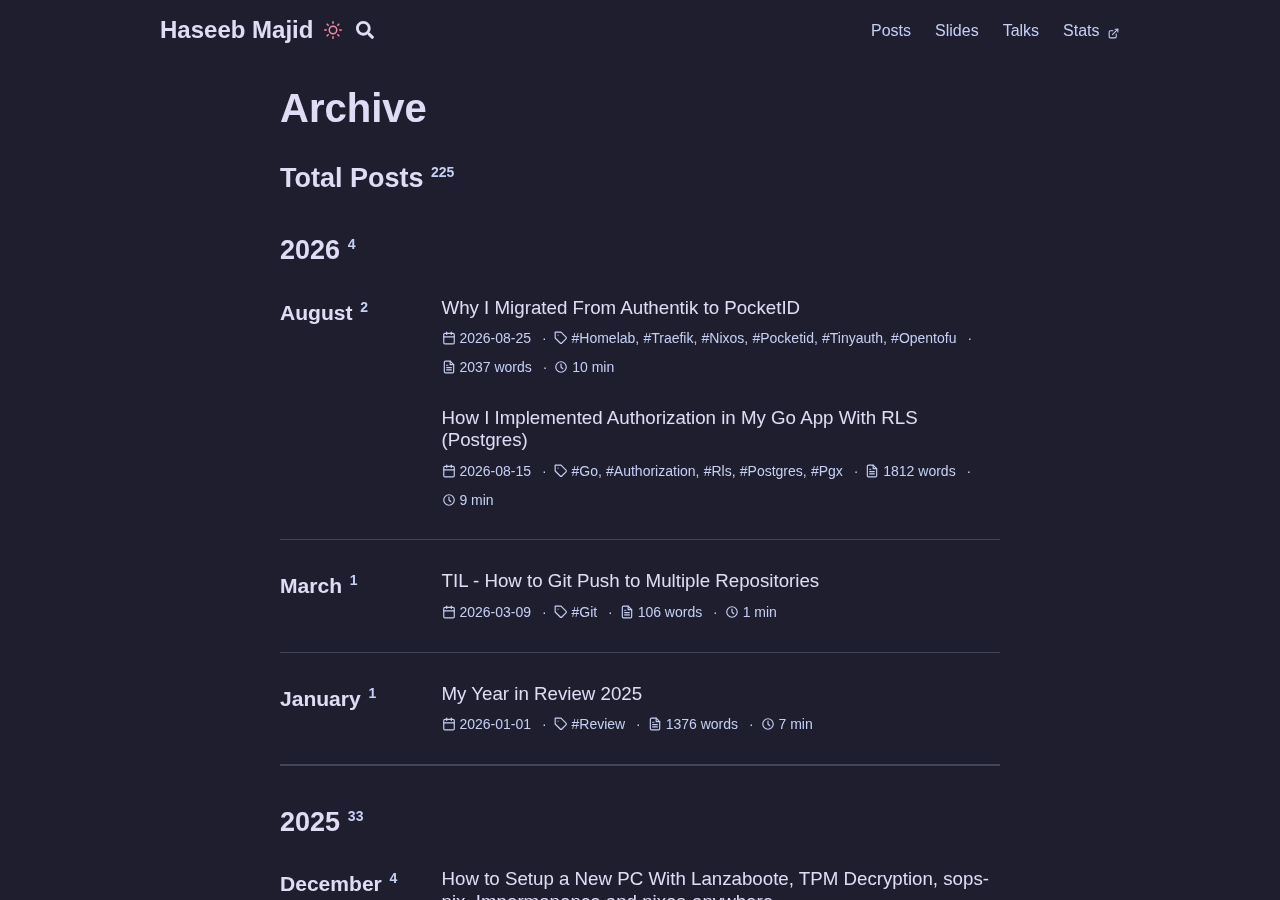
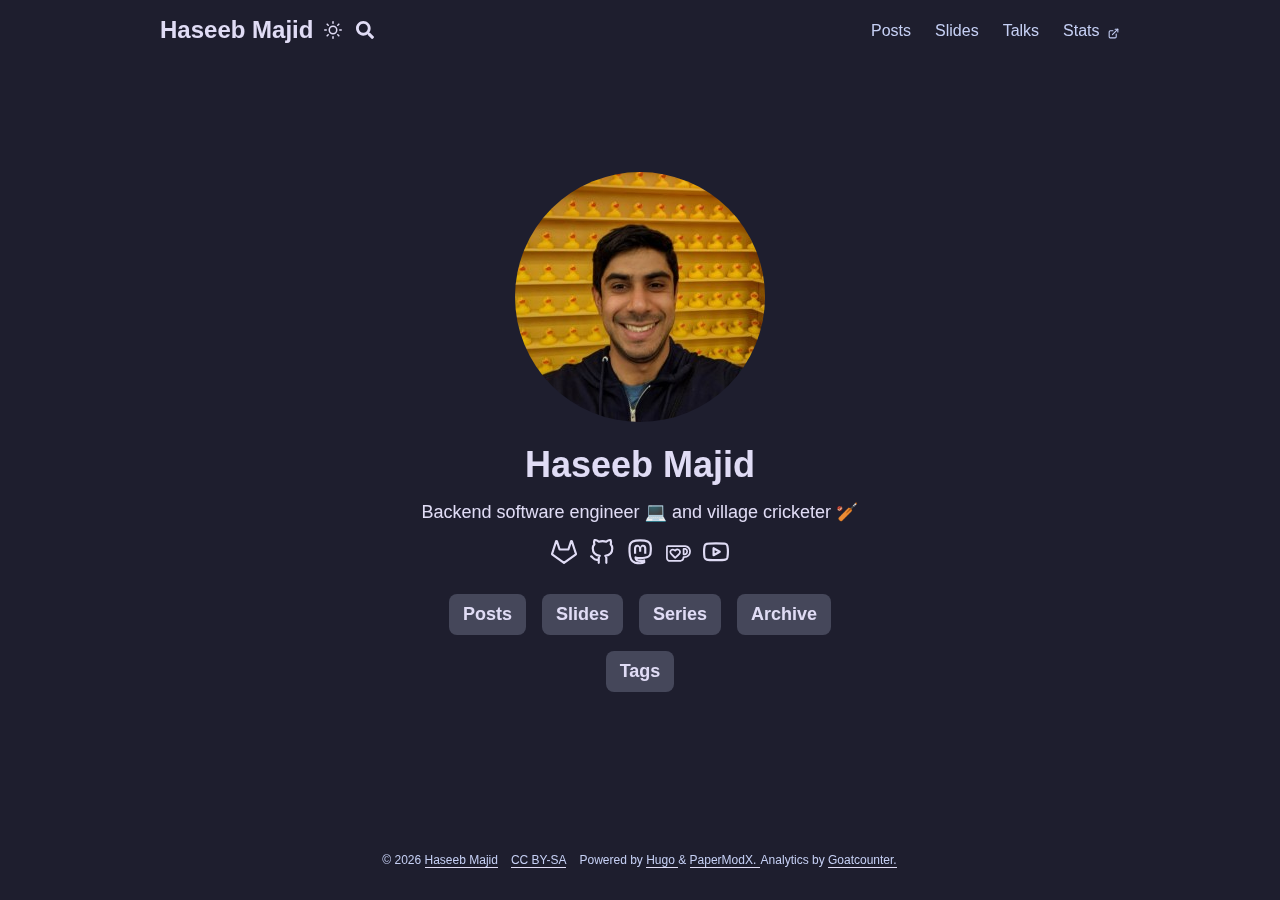
Replace subscribe page with footer links; refresh site history

diff --git a/assets/css/site/24-site-history.css b/assets/css/site/24-site-history.css
@@ -1,0 +1,127 @@
+/* Site history — versions as a `git log` graph: refs, stack pills, reason, screenshots. */
+
+html[data-design] .sh-cmd { margin: 28px 0 8px; }
+html[data-design] .sh-cmd .lab-terminal-scroll { padding: 14px 16px; }
+html[data-design] .sh-prompt { color: var(--term-accent); margin-right: 6px; }
+
+html[data-design] .post-content .sh-log {
+  list-style: none;
+  margin: 0;
+  padding: 0;
+}
+
+/* One commit: a graph rail on the left, content on the right. */
+html[data-design] .post-content .sh-commit {
+  position: relative;
+  margin: 0;
+  padding: 28px 0 36px 40px;
+}
+html[data-design] .sh-commit::before {
+  content: "";
+  position: absolute;
+  left: 9px;
+  top: 0;
+  bottom: 0;
+  border-left: 2px solid var(--lab-rule);
+}
+html[data-design] .sh-commit:first-child::before { top: 36px; }
+html[data-design] .sh-commit:last-child::before { bottom: auto; height: 36px; }
+html[data-design] .sh-commit::after {
+  content: "";
+  position: absolute;
+  left: 3px;
+  top: 30px;
+  width: 10px;
+  height: 10px;
+  border-radius: 50%;
+  border: 2px solid var(--lab-rule);
+  background: var(--lab-bg);
+}
+html[data-design] .sh-commit.is-head::after {
+  border-color: var(--lab-accent);
+  background: var(--lab-accent);
+  box-shadow: 0 0 0 5px color-mix(in srgb, var(--lab-accent) 22%, transparent);
+}
+
+html[data-design] .post-content .sh-refs {
+  display: flex;
+  flex-wrap: wrap;
+  align-items: center;
+  gap: 6px 8px;
+  margin: 0;
+  font: 12px/1.6 var(--lab-mono);
+}
+html[data-design] .sh-ref {
+  padding: 1px 8px;
+  border-radius: 6px;
+  border: 1px solid var(--lab-rule);
+  color: var(--lab-muted);
+}
+html[data-design] .sh-ref-head {
+  border-color: var(--lab-accent);
+  background: var(--lab-accent);
+  color: var(--lab-bg);
+  font-weight: 600;
+}
+html[data-design] .sh-commit.is-head .sh-ref-tag {
+  border-color: var(--lab-accent);
+  color: var(--lab-accent);
+}
+html[data-design] .sh-years { color: var(--lab-muted); }
+
+html[data-design] .post-content .sh-commit h2 {
+  margin: 8px 0 12px;
+  font-size: 26px;
+}
+
+html[data-design] .post-content .sh-stack {
+  list-style: none;
+  display: flex;
+  flex-wrap: wrap;
+  gap: 6px;
+  margin: 0 0 14px;
+  padding: 0;
+}
+html[data-design] .post-content .sh-stack li {
+  margin: 0;
+  padding: 3px 10px;
+  border: 1px solid var(--lab-rule);
+  border-radius: 999px;
+  font: 12px/1.6 var(--lab-mono);
+}
+
+html[data-design] .post-content .sh-why {
+  margin: 0 0 18px;
+  color: var(--lab-muted);
+}
+
+html[data-design] .sh-shots {
+  display: grid;
+  grid-template-columns: repeat(2, minmax(0, 1fr));
+  gap: 12px;
+  margin-bottom: 14px;
+}
+html[data-design] .sh-shots[data-count="1"] { grid-template-columns: minmax(0, 1fr); max-width: calc(50% - 6px); }
+html[data-design] .sh-shots[data-count="3"] { grid-template-columns: repeat(3, minmax(0, 1fr)); }
+html[data-design] .sh-shots figure { margin: 0; }
+html[data-design] .post-content .sh-shots img {
+  display: block;
+  width: 100%;
+  height: auto;
+  margin: 0;
+  border: 1px solid var(--lab-rule);
+  border-radius: 8px;
+}
+html[data-design] .sh-shots figcaption {
+  margin-top: 4px;
+  font: 11px/1.6 var(--lab-mono);
+  color: var(--lab-muted);
+}
+
+html[data-design] .sh-tag-link { font: 12px/1.6 var(--lab-mono); }
+
+@media (max-width: 600px) {
+  html[data-design] .sh-shots,
+  html[data-design] .sh-shots[data-count="3"] { grid-template-columns: minmax(0, 1fr); }
+  html[data-design] .sh-shots[data-count="1"] { max-width: none; }
+}

diff --git a/layouts/site-history.html b/layouts/site-history.html
@@ -1,0 +1,53 @@
+{{- define "main" }}
+{{- $tagURL := "https://gitlab.com/hmajid2301/blog/-/tags/" }}
+<article class="post-single">
+  <header class="post-header">
+    <h1 class="post-title">{{ .Title }}</h1>
+  </header>
+
+  <div class="post-content">
+    {{ .Content }}
+
+    <div class="lab-terminal sh-cmd">
+      <span class="lab-terminal-title" aria-hidden="true">terminal</span>
+      <div class="lab-terminal-scroll"><span class="sh-prompt" aria-hidden="true">❯</span> git log --tags --simplify-by-decoration</div>
+    </div>
+
+    <ol class="sh-log">
+      {{- range $i, $v := .Params.versions }}
+      <li class="sh-commit{{ if eq $i 0 }} is-head{{ end }}">
+        <p class="sh-refs">
+          {{- if eq $i 0 }}<span class="sh-ref sh-ref-head">HEAD → main</span>{{ end }}
+          <span class="sh-ref sh-ref-tag">tag: {{ $v.tag }}</span>
+          <span class="sh-years">{{ $v.years }}</span>
+        </p>
+        <h2 id="v{{ $v.tag | anchorize }}">{{ $v.name }}</h2>
+        <ul class="sh-stack" aria-label="Tech stack">
+          {{- range $v.stack }}<li>{{ . }}</li>{{ end }}
+        </ul>
+        {{- with $v.why }}
+        <p class="sh-why">
+          {{ . }}
+          {{- with $v.post }} <a href="{{ . | relLangURL }}">More in this post</a>{{ end }}
+        </p>
+        {{- end }}
+        <div class="sh-shots" data-count="{{ len $v.shots }}">
+          {{- range $v.shots }}
+          <figure>
+            {{- partial "site-history-shot.html" (dict "src" .src "alt" (printf "Version %s: %s" $v.tag .caption)) }}
+            <figcaption>{{ .caption }}</figcaption>
+          </figure>
+          {{- end }}
+        </div>
+        <a class="sh-tag-link" href="{{ $tagURL }}{{ $v.tag }}">View tag {{ $v.tag }} ↗</a>
+      </li>
+      {{- end }}
+    </ol>
+  </div>
+
+  <footer class="post-footer">
+    {{ partial "git_last_edited.html" . }}
+    {{ partial "edit_post.html" . }}
+  </footer>
+</article>
+{{- end }}

diff --git a/layouts/_partials/site-history-shot.html b/layouts/_partials/site-history-shot.html
@@ -1,0 +1,11 @@
+{{- /* Responsive WebP screenshot from assets/, opens in the image zoom like post images. */ -}}
+{{- with resources.Get .src -}}
+  {{- $small := .Resize "720x webp q85" -}}
+  {{- $large := .Resize (printf "%dx webp q85" (int (math.Min 1440 .Width))) -}}
+  <img loading="lazy" decoding="async" src="{{ $small.RelPermalink }}"
+    srcset="{{ $small.RelPermalink }} {{ $small.Width }}w, {{ $large.RelPermalink }} {{ $large.Width }}w"
+    sizes="(max-width: 800px) calc(100vw - 40px), 360px"
+    data-zoom-src="{{ .RelPermalink }}" width="{{ .Width }}" height="{{ .Height }}" alt="{{ $.alt }}">
+{{- else -}}
+  {{- errorf "site-history: missing screenshot %q" .src -}}
+{{- end -}}

diff --git a/layouts/_partials/footer.html b/layouts/_partials/footer.html
@@ -6,7 +6,8 @@
     {{- end -}}
     <span class="footer-tagline">Deploys <em>code 💻</em>. Bowls a few <em>overs 🏏</em>.</span>
     <span class="footer-links">
-        <a href="{{ "/subscribe/" | relLangURL }}">Subscribe</a>
+        <a href="{{ "index.xml" | relLangURL }}">RSS</a>
+        <a href="{{ "/site-history/" | relLangURL }}">Site history</a>
         <a href="https://stats.haseebmajid.dev/">Stats ↗</a>
     </span>
     <div class="palette-switch footer-palette" role="group" aria-label="Colour palette">

diff --git a/assets/css/site/19-footer.css b/assets/css/site/19-footer.css
@@ -36,7 +36,7 @@ html[data-design][data-design] .footer { justify-content: space-between; text-al
   html[data-design][data-design] .footer { justify-content: center; text-align: center; }
 }
 
-/* Subscribe + Stats, moved out of the nav. */
+/* RSS, Site history + Stats, moved out of the nav. */
 html[data-design] .footer .footer-links {
   display: inline-flex;
   gap: 14px;

diff --git a/content/site-history.md b/content/site-history.md
@@ -1,42 +1,51 @@
 ---
 title: "Site history"
 summary: "A look back at the previous versions of this site."
+layout: site-history
 hideMeta: true
 showtoc: false
+versions:
+  - tag: "5.0.0"
+    name: Custom Hugo theme
+    years: "2026–"
+    stack: [Hugo, Custom theme, GitLab Pages]
+    why: Replaced PaperModX with a theme of my own.
+    shots:
+      - { src: site-history/v5.png, caption: Home }
+      - { src: site-history/v5-post.png, caption: Article }
+  - tag: "4.0.0"
+    name: Hugo + PaperModX
+    years: "2022–2026"
+    stack: [Hugo, PaperModX, Netlify]
+    why: >-
+      The Gatsby site had become a chore to maintain. Builds broke, old plugins blocked upgrades
+      and adding a talks page was painful. Hugo builds in under a second instead of two minutes.
+    post: /posts/2022-11-17-why-i-moved-from-gatsby-to-hugo-for-this-blog/
+    shots:
+      - { src: site-history/v4.png, caption: Home (early) }
+      - { src: site-history/v4-post.png, caption: Article }
+      - { src: site-history/v4-latest.png, caption: Home (final) }
+  - tag: "3.0.0"
+    name: Gatsby
+    years: "2020–2022"
+    stack: [Gatsby, React, TypeScript, Tailwind, Netlify]
+    why: To turn the site into a blog.
+    shots:
+      - { src: site-history/v3.png, caption: Home }
+      - { src: site-history/v3-post.png, caption: Article }
+  - tag: "2.0.0"
+    name: React + Material UI
+    years: "2020"
+    stack: [React, Material UI, TypeScript, GitLab Pages]
+    why: To grow the landing page into a portfolio site.
+    shots:
+      - { src: site-history/v2.png, caption: Home }
+  - tag: "1.0.0"
+    name: Static HTML
+    years: "2019–2020"
+    stack: [HTML, GitLab Pages]
+    shots:
+      - { src: site-history/v1.png, caption: Home }
 ---
 
-This site has gone through a few incarnations over the years. Each version is tagged in GitLab.
-
-## 5.0.0 · Hugo custom theme · current (2026–)
-![Version 5 — Hugo home page, dark](site-history/v5-dark.png)
-![Version 5 — Hugo article, dark](site-history/v5-post.png)
-A ground-up custom **Hugo** theme replacing PaperModX, with a Catppuccin/Fireside palette switcher, self-hosted Jost and Schibsted Grotesk, Neovim-framed code, picker-style search and build-time OG cards.
-
-[Tag ↗](https://gitlab.com/hmajid2301/blog/-/tags/5.0.0)
-
-## 4.0.0 · Hugo JamStack (2022–2026)
-![Version 4 — Hugo home page, early](site-history/v4.png)
-![Version 4 — Hugo blog post](site-history/v4-post.png)
-![Version 4 — Hugo home page, latest](site-history/v4-latest.png)
-Built with **Hugo** and the **PaperModX** theme, with content managed locally in the repo. I moved from Gatsby to Hugo because I no longer wanted to put in the effort to maintain the old site; the Gatsby build took about two minutes and Hugo builds in under a second. [Why I moved from Gatsby to Hugo](/posts/2022-11-17-why-i-moved-from-gatsby-to-hugo-for-this-blog/)
-
-[Tag ↗](https://gitlab.com/hmajid2301/blog/-/tags/4.0.0)
-
-## 3.0.0 · Gatsby JamStack (2020–2022)
-![Version 3 — Gatsby home page](site-history/v3.png)
-![Version 3 — Gatsby blog post](site-history/v3-post.png)
-A Jamstack build using **Gatsby** with Elasticlunr search and Goatcounter analytics.
-
-[Tag ↗](https://gitlab.com/hmajid2301/blog/-/tags/3.0.0)
-
-## 2.0.0 · React + Material UI (Mar–Apr 2020)
-![Version 2 — React + Material UI](site-history/v2.png)
-A single-page app written in **React** with **Material UI**, styled-components and TypeScript.
-
-[Tag ↗](https://gitlab.com/hmajid2301/blog/-/tags/2.0.0)
-
-## 1.0.0 · Initial commit (Sep 2019 – Mar 2020)
-![Version 1 — the first site](site-history/v1.png)
-The very first version of the site: static HTML served from GitLab Pages.
-
-[Tag ↗](https://gitlab.com/hmajid2301/blog/-/tags/1.0.0)
+Five versions since 2019. Every one is tagged in GitLab.
